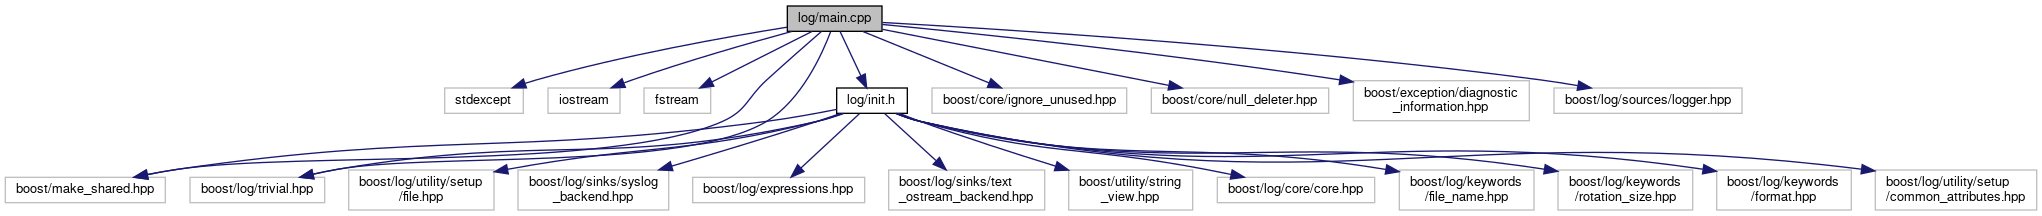
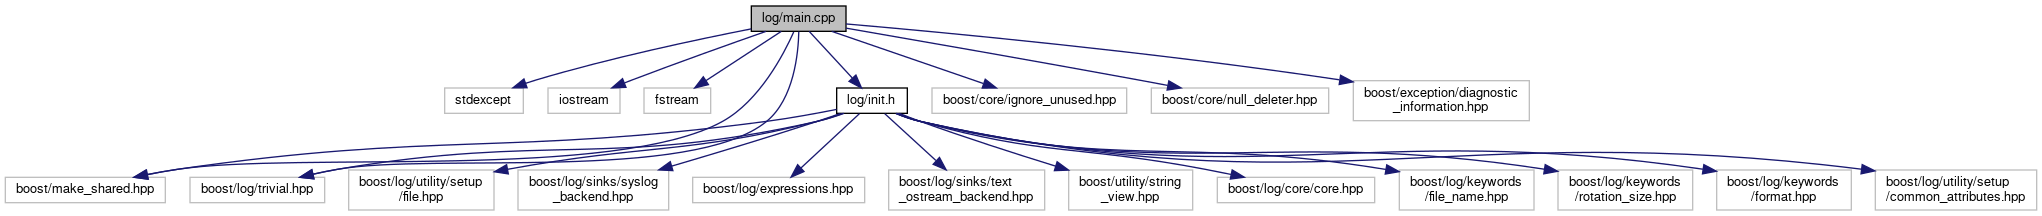
Auto commit

diff --git a/init_8h_source.html b/init_8h_source.html
@@ -150,13 +150,21 @@ $(function() {
 <div class="line"><a id="l00081" name="l00081"></a><span class="lineno">   81</span>     <span class="keyword">auto</span> sink = boost::make_shared&lt; Sink &gt;();</div>
 <div class="line"><a id="l00082" name="l00082"></a><span class="lineno">   82</span>     sink-&gt;locked_backend()-&gt;add_stream( os );</div>
 <div class="line"><a id="l00083" name="l00083"></a><span class="lineno">   83</span> </div>
-<div class="line"><a id="l00084" name="l00084"></a><span class="lineno">   84</span>     boost::log::core::get()-&gt;add_sink( sink );</div>
-<div class="line"><a id="l00085" name="l00085"></a><span class="lineno">   85</span>}</div>
-<div class="line"><a id="l00086" name="l00086"></a><span class="lineno">   86</span> </div>
-<div class="line"><a id="l00087" name="l00087"></a><span class="lineno">   87</span> </div>
-<div class="line"><a id="l00088" name="l00088"></a><span class="lineno">   88</span>} <span class="comment">// namespace init</span></div>
-<div class="line"><a id="l00089" name="l00089"></a><span class="lineno">   89</span>} <span class="comment">// namespace log</span></div>
-<div class="line"><a id="l00090" name="l00090"></a><span class="lineno">   90</span>} <span class="comment">// namespace using_boost</span></div>
+<div class="line"><a id="l00084" name="l00084"></a><span class="lineno">   84</span>     boost::log::add_common_attributes();</div>
+<div class="line"><a id="l00085" name="l00085"></a><span class="lineno">   85</span>     sink-&gt;set_formatter(</div>
+<div class="line"><a id="l00086" name="l00086"></a><span class="lineno">   86</span>          boost::log::expressions::format( <span class="stringliteral">&quot;[%1%]&lt;%2%&gt;: %3%&quot;</span> )</div>
+<div class="line"><a id="l00087" name="l00087"></a><span class="lineno">   87</span>               % boost::log::expressions::attr&lt; unsigned &gt;( <span class="stringliteral">&quot;LineID&quot;</span> )</div>
+<div class="line"><a id="l00088" name="l00088"></a><span class="lineno">   88</span>               % boost::log::trivial::severity</div>
+<div class="line"><a id="l00089" name="l00089"></a><span class="lineno">   89</span>               % boost::log::expressions::smessage</div>
+<div class="line"><a id="l00090" name="l00090"></a><span class="lineno">   90</span>          );</div>
+<div class="line"><a id="l00091" name="l00091"></a><span class="lineno">   91</span> </div>
+<div class="line"><a id="l00092" name="l00092"></a><span class="lineno">   92</span>     boost::log::core::get()-&gt;add_sink( sink );</div>
+<div class="line"><a id="l00093" name="l00093"></a><span class="lineno">   93</span>}</div>
+<div class="line"><a id="l00094" name="l00094"></a><span class="lineno">   94</span> </div>
+<div class="line"><a id="l00095" name="l00095"></a><span class="lineno">   95</span> </div>
+<div class="line"><a id="l00096" name="l00096"></a><span class="lineno">   96</span>} <span class="comment">// namespace init</span></div>
+<div class="line"><a id="l00097" name="l00097"></a><span class="lineno">   97</span>} <span class="comment">// namespace log</span></div>
+<div class="line"><a id="l00098" name="l00098"></a><span class="lineno">   98</span>} <span class="comment">// namespace using_boost</span></div>
 <div class="ttc" id="ainit_8h_html_a2b64922ac72418049c137a6db6f4ff8d"><div class="ttname"><a href="init_8h.html#a2b64922ac72418049c137a6db6f4ff8d">using_boost::log::init::setLogRotation</a></div><div class="ttdeci">void setLogRotation(boost::string_view logMask, const std::size_t maxBytes=10_KB)</div><div class="ttdef"><b>Definition:</b> init.h:42</div></div>
 </div><!-- fragment --></div><!-- contents -->
 <!-- start footer part -->

diff --git a/log_2main_8cpp.html b/log_2main_8cpp.html
@@ -79,14 +79,13 @@ $(function() {
 <code>#include &lt;boost/core/null_deleter.hpp&gt;</code><br />
 <code>#include &lt;boost/exception/diagnostic_information.hpp&gt;</code><br />
 <code>#include &lt;boost/log/trivial.hpp&gt;</code><br />
-<code>#include &lt;boost/log/sources/logger.hpp&gt;</code><br />
 <code>#include &lt;<a class="el" href="init_8h_source.html">log/init.h</a>&gt;</code><br />
 </div><div class="textblock"><div class="dynheader">
 Граф включаемых заголовочных файлов для main.cpp:</div>
 <div class="dyncontent">
 <div class="center"><img src="log_2main_8cpp__incl.png" border="0" usemap="#alog_2main_8cpp" alt=""/></div>
 <map name="alog_2main_8cpp" id="alog_2main_8cpp">
-<area shape="rect" title=" " alt="" coords="787,5,882,32"/>
+<area shape="rect" title=" " alt="" coords="751,5,846,32"/>
 <area shape="rect" title=" " alt="" coords="445,87,523,114"/>
 <area shape="rect" title=" " alt="" coords="548,87,620,114"/>
 <area shape="rect" title=" " alt="" coords="644,87,711,114"/>
@@ -95,7 +94,6 @@ $(function() {
 <area shape="rect" title=" " alt="" coords="1151,87,1329,114"/>
 <area shape="rect" title=" " alt="" coords="1353,80,1529,121"/>
 <area shape="rect" title=" " alt="" coords="190,177,325,203"/>
-<area shape="rect" title=" " alt="" coords="1554,87,1742,114"/>
 <area shape="rect" href="init_8h.html" title=" " alt="" coords="837,87,907,114"/>
 <area shape="rect" title=" " alt="" coords="1069,169,1193,211"/>
 <area shape="rect" title=" " alt="" coords="1217,177,1375,203"/>
